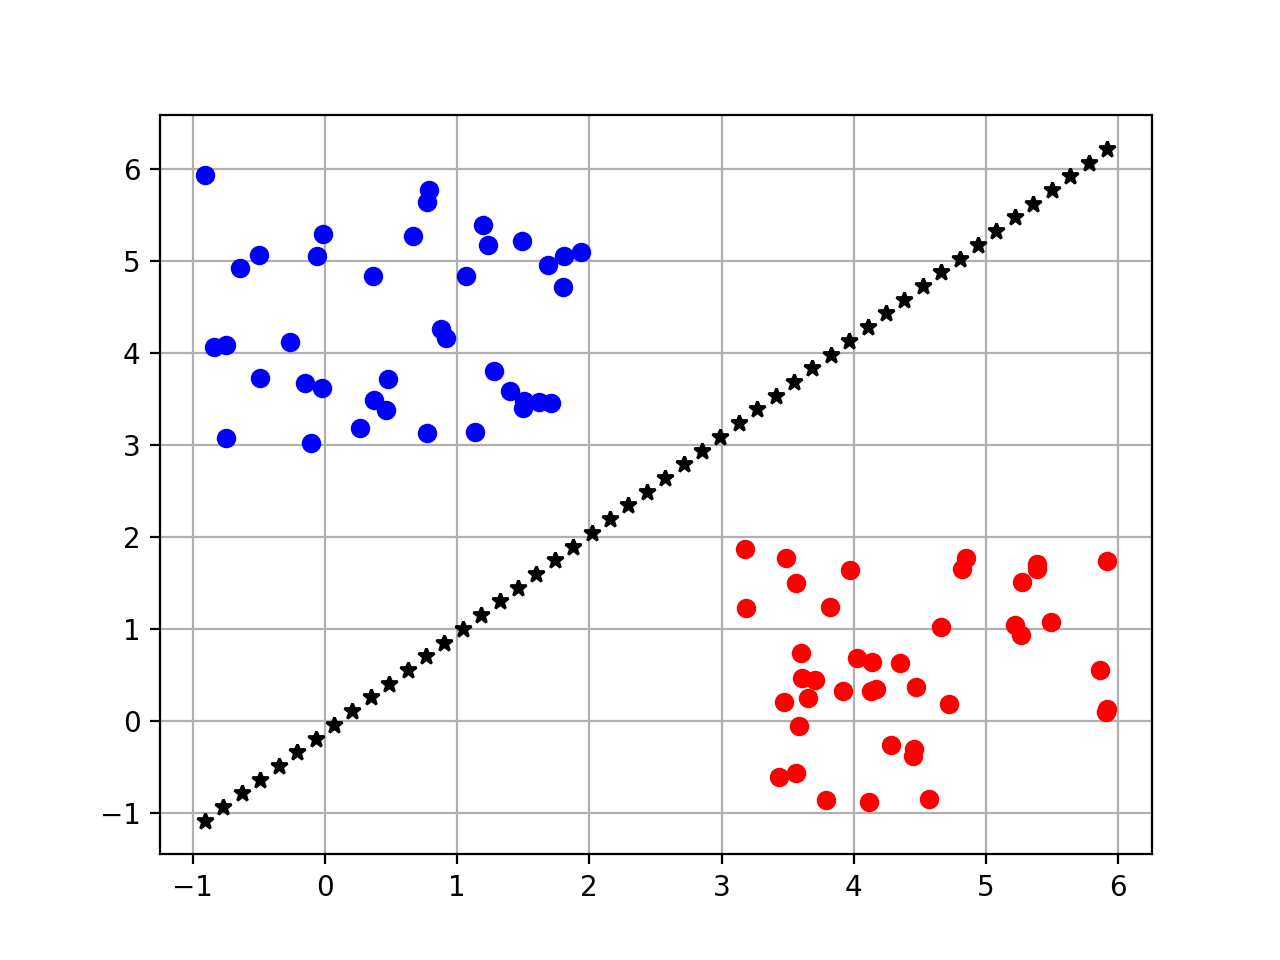
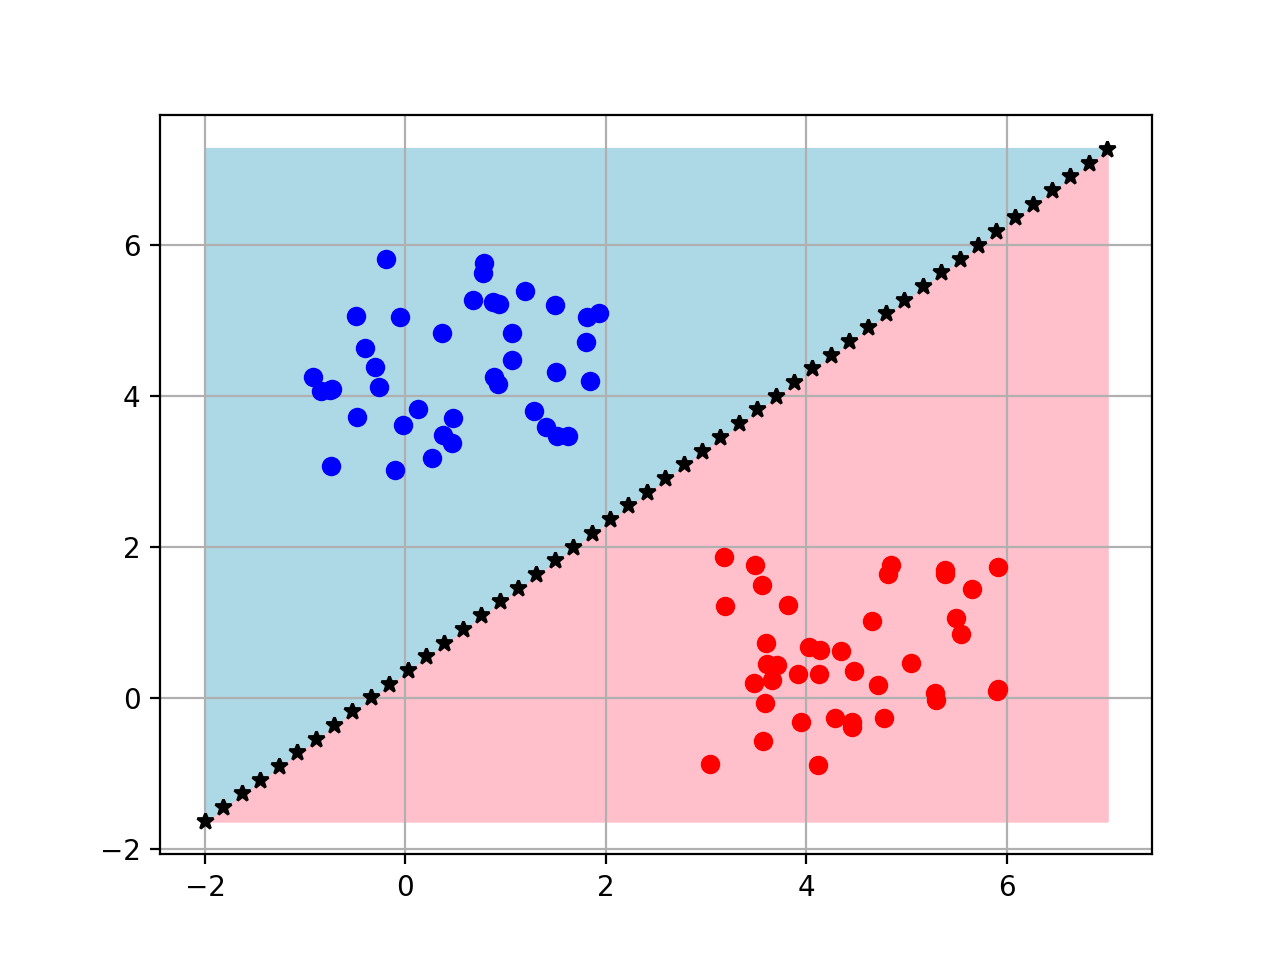
fig 2 with two colors as requested

diff --git a/test.py b/test.py
@@ -14,9 +14,9 @@ def plot(X, Y):
     sns.lmplot('X0', 'X1', data=df, hue='Y', fit_reg=False)
 
 def plot_data(inputs,targets,weights):
-    # https://stackoverflow.com/a/48022752/753136
+    # Some parts inspired from https://stackoverflow.com/a/48022752/753136
     # fig config
-    plt.figure()
+    fig, ax = plt.subplots()
     plt.grid(True)
 
     #plot input samples(2D data points) and i have two classes.
@@ -24,14 +24,22 @@ def plot_data(inputs,targets,weights):
     for input,target in zip(inputs,targets):
         plt.plot(input[0],input[1],'ro' if (target == 1.0) else 'bo')
 
+    x = []
+    y1 = []
+
     # Here i am calculating slope and intercept with given three weights
-    for i in np.linspace(np.amin(inputs[:,:1]),np.amax(inputs[:,:1])):
+    for i in np.linspace(-2,7):
         slope = -(weights[0]/weights[2])/(weights[0]/weights[1])
         intercept = -weights[0]/weights[2]
 
         #y =mx+c, m is slope and c is intercept
         y = (slope*i) + intercept
         plt.plot(i, y,'k*')
+        x.append(i)
+        y1.append(y.item(0))
+
+    ax.fill_between(x, y1, np.amin(y1), color='pink')
+    ax.fill_between(x, np.amax(y1), y1, color='lightblue')
 
 
 def accuracy(labels, hypotheses):
